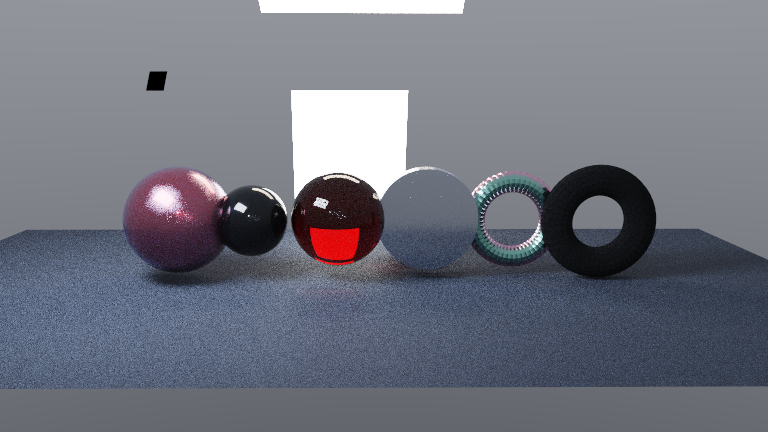
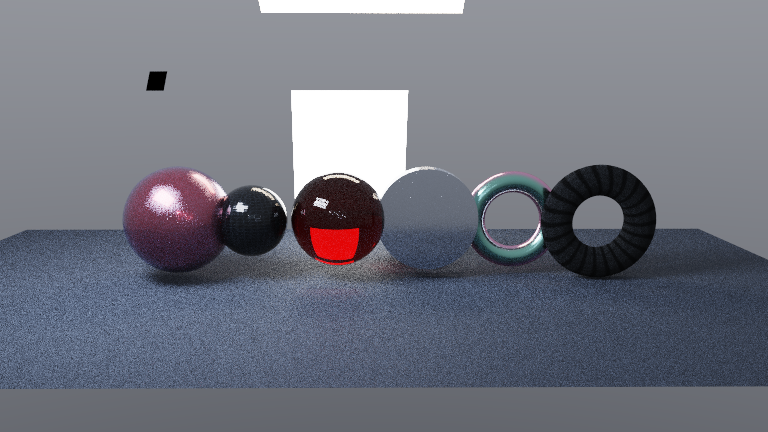
feat(materials): add UV automotive surface detail review

Changed region(s): [[0.625, 0.3912, 0.7188, 0.6019], [0.2812, 0.4815, 0.3438, 0.5116], [0.3438, 0.4514, 0.375, 0.4815]]

diff --git a/Exhibits/Workbench/Automotive/AutomotiveMaterialPreview.cpp b/Exhibits/Workbench/Automotive/AutomotiveMaterialPreview.cpp
@@ -20,10 +20,11 @@ namespace
 constexpr float kPi = 3.14159265358979323846f;
 
 void AddSmoothTri(const vec3& A, const vec3& B, const vec3& C,
-                  const vec3& Na, const vec3& Nb, const vec3& Nc, int Mat)
+                  const vec3& Na, const vec3& Nb, const vec3& Nc, int Mat,
+                  const vec2& UvA = vec2(0.0f), const vec2& UvB = vec2(0.0f), const vec2& UvC = vec2(0.0f))
 {
     size_t Base = g_Tris.size();
-    AddTri(A, B, C, Mat);
+    AddTri(A, B, C, Mat, -1, UvA, UvB, UvC);
     Tri& T = g_Tris[Base];
     T.Na = Na; T.Nb = Nb; T.Nc = Nc;
 }
@@ -44,10 +45,14 @@ void AddSphere(const vec3& Center, float Radius, int Mat, int Segments = 36, int
                                               std::sin(P) * std::sin(U), std::cos(P));
             };
             vec3 A = Point(P0, U0), B = Point(P0, U1), C = Point(P1, U1), D = Point(P1, U0);
+            vec2 Ua(static_cast<float>(X) / Segments, static_cast<float>(Y) / Rings);
+            vec2 Ub(static_cast<float>(X + 1) / Segments, static_cast<float>(Y) / Rings);
+            vec2 Uc(static_cast<float>(X + 1) / Segments, static_cast<float>(Y + 1) / Rings);
+            vec2 Ud(static_cast<float>(X) / Segments, static_cast<float>(Y + 1) / Rings);
             if (Y != 0)
-                AddSmoothTri(A, B, D, normalize(A - Center), normalize(B - Center), normalize(D - Center), Mat);
+                AddSmoothTri(A, B, D, normalize(A - Center), normalize(B - Center), normalize(D - Center), Mat, Ua, Ub, Ud);
             if (Y != Rings - 1)
-                AddSmoothTri(B, C, D, normalize(B - Center), normalize(C - Center), normalize(D - Center), Mat);
+                AddSmoothTri(B, C, D, normalize(B - Center), normalize(C - Center), normalize(D - Center), Mat, Ub, Uc, Ud);
         }
     }
 }
@@ -73,12 +78,19 @@ void AddTorus(const vec3& Center, float Major, float Minor, int Mat, int Segment
                 return normalize(vec3(std::cos(V) * std::cos(U), std::sin(V), std::cos(V) * std::sin(U)));
             };
             vec3 A = Point(U0, V0), B = Point(U1, V0), C = Point(U1, V1), D = Point(U0, V1);
-            if (dot(cross(B - A, D - A), Normal(U0, V0)) < 0.0f)
+            vec3 Na = Normal(U0, V0), Nb = Normal(U1, V0), Nc = Normal(U1, V1), Nd = Normal(U0, V1);
+            vec2 Ua(static_cast<float>(X) / Segments, static_cast<float>(Y) / Tube);
+            vec2 Ub(static_cast<float>(X + 1) / Segments, static_cast<float>(Y) / Tube);
+            vec2 Uc(static_cast<float>(X + 1) / Segments, static_cast<float>(Y + 1) / Tube);
+            vec2 Ud(static_cast<float>(X) / Segments, static_cast<float>(Y + 1) / Tube);
+            if (dot(cross(B - A, D - A), Na) < 0.0f)
             {
                 vec3 T = B; B = D; D = T;
+                vec3 Tn = Nb; Nb = Nd; Nd = Tn;
+                vec2 Tu = Ub; Ub = Ud; Ud = Tu;
             }
-            AddSmoothTri(A, B, D, Normal(U0, V0), Normal(U1, V0), Normal(U0, V1), Mat);
-            AddSmoothTri(B, C, D, Normal(U1, V0), Normal(U1, V1), Normal(U0, V1), Mat);
+            AddSmoothTri(A, B, D, Na, Nb, Nd, Mat, Ua, Ub, Ud);
+            AddSmoothTri(B, C, D, Nb, Nc, Nd, Mat, Ub, Uc, Ud);
         }
     }
 }
@@ -96,16 +108,24 @@ void AddCylinder(const vec3& Center, float Radius, float HalfLength, int Mat, in
         vec3 B = Center + vec3(R1.x * Radius, -HalfLength, R1.z * Radius);
         vec3 C = Center + vec3(R1.x * Radius, HalfLength, R1.z * Radius);
         vec3 D = Center + vec3(R0.x * Radius, HalfLength, R0.z * Radius);
-        AddSmoothTri(A, B, D, R0, R1, R0, Mat);
-        AddSmoothTri(B, C, D, R1, R1, R0, Mat);
+        vec2 Ua(static_cast<float>(X) / Segments, 0.0f);
+        vec2 Ub(static_cast<float>(X + 1) / Segments, 0.0f);
+        vec2 Uc(static_cast<float>(X + 1) / Segments, 1.0f);
+        vec2 Ud(static_cast<float>(X) / Segments, 1.0f);
+        AddSmoothTri(A, B, D, R0, R1, R0, Mat, Ua, Ub, Ud);
+        AddSmoothTri(B, C, D, R1, R1, R0, Mat, Ub, Uc, Ud);
         vec3 F0 = Center + vec3(R0.x * Radius, -HalfLength, R0.z * Radius);
         vec3 F1 = Center + vec3(R1.x * Radius, -HalfLength, R1.z * Radius);
         AddSmoothTri(Center + vec3(0.0f, -HalfLength, 0.0f), F1, F0,
-                     vec3(0.0f, -1.0f, 0.0f), vec3(0.0f, -1.0f, 0.0f), vec3(0.0f, -1.0f, 0.0f), Mat);
+                     vec3(0.0f, -1.0f, 0.0f), vec3(0.0f, -1.0f, 0.0f), vec3(0.0f, -1.0f, 0.0f), Mat,
+                     vec2(0.5f), vec2(0.5f + 0.5f * R1.x, 0.5f + 0.5f * R1.z),
+                     vec2(0.5f + 0.5f * R0.x, 0.5f + 0.5f * R0.z));
         vec3 B0 = Center + vec3(R0.x * Radius, HalfLength, R0.z * Radius);
         vec3 B1 = Center + vec3(R1.x * Radius, HalfLength, R1.z * Radius);
         AddSmoothTri(Center + vec3(0.0f, HalfLength, 0.0f), B0, B1,
-                     vec3(0.0f, 1.0f, 0.0f), vec3(0.0f, 1.0f, 0.0f), vec3(0.0f, 1.0f, 0.0f), Mat);
+                     vec3(0.0f, 1.0f, 0.0f), vec3(0.0f, 1.0f, 0.0f), vec3(0.0f, 1.0f, 0.0f), Mat,
+                     vec2(0.5f), vec2(0.5f + 0.5f * R0.x, 0.5f + 0.5f * R0.z),
+                     vec2(0.5f + 0.5f * R1.x, 0.5f + 0.5f * R1.z));
     }
 }
 
@@ -142,6 +162,8 @@ void ClearScene()
     g_Order.clear();
     g_Lights.clear();
     g_SolidBall = true;
+    g_AutomotiveCarbonMat = -1;
+    g_AutomotiveTireMat = -1;
     for (ShadingRecord& M : g_Mats) M = AutomotiveDefaults();
 }
 
@@ -207,6 +229,8 @@ void BuildSuiteScene()
     g_Mats[5] = AutomotiveTireRubber();
     g_Mats[6] = AutomotiveAlcantara();
     g_Mats[7] = GroundMaterial();
+    g_AutomotiveCarbonMat = 2;
+    g_AutomotiveTireMat = 5;
 
     AddQuad(vec3(-8.0f, -4.0f, 0.0f), vec3(8.0f, -4.0f, 0.0f),
             vec3(8.0f, 5.0f, 0.0f), vec3(-8.0f, 5.0f, 0.0f), 7);
@@ -260,6 +284,25 @@ void BuildOpticsScene()
     AddCylinder(vec3(2.95f, 0.68f, 1.05f), 0.76f, 0.18f, 3);
     AddTorus(vec3(4.35f, 0.80f, 0.92f), 0.55f, 0.15f, 6);
     AddStudioRig(vec3(0.0f, 0.8f, 1.0f));
+    FinaliseScene();
+}
+
+void BuildUvDetailScene()
+{
+    ClearScene();
+    g_Mats[0] = AutomotiveCarbonResin();
+    g_Mats[1] = AutomotiveTireRubber();
+    g_Mats[2] = GroundMaterial();
+    g_AutomotiveCarbonMat = 0;
+    g_AutomotiveTireMat = 1;
+
+    AddQuad(vec3(-6.0f, -3.0f, 0.0f), vec3(6.0f, -3.0f, 0.0f),
+            vec3(6.0f, 4.0f, 0.0f), vec3(-6.0f, 4.0f, 0.0f), 2);
+    // Close review samples: the sphere exposes the dual-weave carbon UV field, while the torus exposes the wrapped
+    // tire tread UV field. Both are procedurally generated and carry interpolated UVs into the shared hit path.
+    AddSphere(vec3(-1.45f, 0.55f, 1.18f), 1.05f, 0, 64, 40);
+    AddTorus(vec3(1.55f, 0.85f, 1.08f), 0.78f, 0.29f, 1, 64, 28);
+    AddStudioRig(vec3(0.0f, 0.75f, 1.05f));
     FinaliseScene();
 }
 
@@ -380,6 +423,14 @@ int main(int Argc, char** Argv)
     std::string OpticsPath = OutDir + "/AutomotiveOpticsAndCoatings.png";
     if (!WriteFilm(OpticsPath.c_str(), Optics, Width, Height, 1.0f)) return 3;
 
+    BuildUvDetailScene();
+    Camera UvCamera = MakeCamera(vec3(0.10f, -7.4f, 2.55f), vec3(0.10f, 0.70f, 1.10f),
+                                 static_cast<float>(Width) / Height, 27.5f);
+    std::vector<float> UvDetail;
+    RenderFilm(UvCamera, Width, Height, Spp, UvDetail, 252);
+    std::string UvPath = OutDir + "/AutomotiveUvSurfaceDetail.png";
+    if (!WriteFilm(UvPath.c_str(), UvDetail, Width, Height, 1.25f)) return 5;
+
     BuildPaintScene();
     int PaintW = Width / 2;
     Camera FaceCamera = MakeCamera(vec3(0.0f, -8.5f, 2.45f), vec3(0.0f, 0.65f, 1.45f),
@@ -394,6 +445,7 @@ int main(int Argc, char** Argv)
 
     std::printf("[AutomotivePreview] wrote %s\n", SuitePath.c_str());
     std::printf("[AutomotivePreview] wrote %s\n", OpticsPath.c_str());
+    std::printf("[AutomotivePreview] wrote %s\n", UvPath.c_str());
     std::printf("[AutomotivePreview] wrote %s\n", PaintPath.c_str());
     std::printf("[AutomotivePreview] exact BSDF: Engine/Shaders/MaterialEvaluation.slang\n");
     std::printf("[AutomotivePreview] exact profiles: Engine/Shaders/AutomotiveMaterialProfiles.slang\n");

diff --git a/Engine/ContentInterchange/ShaderballPreview.cpp b/Engine/ContentInterchange/ShaderballPreview.cpp
@@ -114,6 +114,7 @@ struct Tri
 {
     vec3 A, B, C;      // vertices (world)
     vec3 Na, Nb, Nc;   // smooth vertex normals (world); zero when the source has none
+    vec2 UvA, UvB, UvC; // interpolated surface UVs; zero when the source has none
     vec3 Ng;           // geometric normal (unit)
     int  Mat;          // material slot
     int  Light;        // emissive quad id, −1 when not a luminaire
@@ -263,11 +264,13 @@ struct QuadLight
 
 std::vector<QuadLight> g_Lights;
 
-void AddTri(const vec3& A, const vec3& B, const vec3& C, int Mat, int Light = -1)
+void AddTri(const vec3& A, const vec3& B, const vec3& C, int Mat, int Light = -1,
+            const vec2& UvA = vec2(0.0f), const vec2& UvB = vec2(0.0f), const vec2& UvC = vec2(0.0f))
 {
     Tri T;
     T.A = A; T.B = B; T.C = C;
     T.Na = T.Nb = T.Nc = vec3(0.0f);
+    T.UvA = UvA; T.UvB = UvB; T.UvC = UvC;
     T.Ng = normalize(cross(B - A, C - A));
     T.Mat = Mat; T.Light = Light;
     g_Tris.push_back(T);
@@ -278,6 +281,7 @@ bool LoadObj(const char* Path, int Mat)
     FILE* F = std::fopen(Path, "r");
     if (!F) return false;
     std::vector<vec3> V, N;
+    std::vector<vec2> UV;
     char Line[1024];
     int Added = 0;
     while (std::fgets(Line, sizeof(Line), F))
@@ -287,6 +291,11 @@ bool LoadObj(const char* Path, int Mat)
             vec3 P;
             if (std::sscanf(Line + 2, "%f %f %f", &P.x, &P.y, &P.z) == 3) V.push_back(P);
         }
+        else if (Line[0] == 'v' && Line[1] == 't')
+        {
+            vec2 Q;
+            if (std::sscanf(Line + 3, "%f %f", &Q.x, &Q.y) >= 2) UV.push_back(Q);
+        }
         else if (Line[0] == 'v' && Line[1] == 'n')
         {
             vec3 Q;
@@ -294,8 +303,9 @@ bool LoadObj(const char* Path, int Mat)
         }
         else if (Line[0] == 'f' && Line[1] == ' ')
         {
-            // Fan-triangulate; accepts v, v/vt/vn, v//vn.
-            int VI[16], NI[16], NV = 0;
+            // Fan-triangulate; accepts v, v/vt/vn, v//vn. UVs are kept alongside positions so material detail
+            // can be evaluated in the same interpolated hit path as the smooth shading normal.
+            int VI[16], TI[16], NI[16], NV = 0;
             const char* P = Line + 2;
             while (*P && NV < 16)
             {
@@ -306,7 +316,10 @@ bool LoadObj(const char* Path, int Mat)
                 if (Read <= 0) { Read = std::sscanf(P, "%d//%d", &Vi, &Ni); }
                 if (Read <= 0) { Read = std::sscanf(P, "%d", &Vi); }
                 if (Read <= 0) break;
-                VI[NV] = Vi - 1; NI[NV] = (Read >= 3 || (Read == 2 && std::strchr(P, '/'))) ? Ni - 1 : -1;
+                VI[NV] = Vi - 1;
+                bool HasUv = Read >= 2 && std::strchr(P, '/') != nullptr && std::strstr(P, "//") == nullptr;
+                TI[NV] = HasUv ? Ti - 1 : -1;
+                NI[NV] = (Read >= 3 || (Read == 2 && std::strstr(P, "//") != nullptr)) ? Ni - 1 : -1;
                 ++NV;
                 while (*P && *P != ' ' && *P != '\t' && *P != '\n' && *P != '\r') ++P;
             }
@@ -315,7 +328,13 @@ bool LoadObj(const char* Path, int Mat)
                 int I0 = VI[0], I1 = VI[K], I2 = VI[K + 1];
                 if (I0 < 0 || I1 < 0 || I2 < 0 || I0 >= (int)V.size() || I1 >= (int)V.size() || I2 >= (int)V.size()) continue;
                 size_t Base = g_Tris.size();
-                AddTri(V[I0], V[I1], V[I2], Mat);
+                vec2 T0(0.0f), T1(0.0f), T2(0.0f);
+                int K0 = TI[0], K1 = TI[K], K2 = TI[K + 1];
+                if (K0 >= 0 && K1 >= 0 && K2 >= 0 && K0 < (int)UV.size() && K1 < (int)UV.size() && K2 < (int)UV.size())
+                {
+                    T0 = UV[K0]; T1 = UV[K1]; T2 = UV[K2];
+                }
+                AddTri(V[I0], V[I1], V[I2], Mat, -1, T0, T1, T2);
                 Tri& T = g_Tris[Base];
                 int J0 = NI[0], J1 = NI[K], J2 = NI[K + 1];
                 if (J0 >= 0 && J1 >= 0 && J2 >= 0 && J0 < (int)N.size() && J1 < (int)N.size() && J2 < (int)N.size())
@@ -382,6 +401,11 @@ ShadingRecord StandardMaterial(vec3 albedo, float roughness)
 }
 
 ShadingRecord g_Mats[8];
+
+// Standalone automotive scene selectors. A value below zero keeps UV review detail opt-in; the ordinary shaderball
+// exhibit and Project-Zero paths therefore retain their legacy material bytes and shading behavior.
+int g_AutomotiveCarbonMat = -1;
+int g_AutomotiveTireMat = -1;
 bool g_SolidBall = false;   // M4b: the ball (slot 0) is traversed as solid glass (medium tracking, not skip-ball)
 
 #ifndef SHADERBALL_PREVIEW_LIB
@@ -603,17 +627,30 @@ vec3 Radiance(vec3 O, vec3 D, Rng& R)
             Ns = normalize(T.Na * (1.0f - H.U - H.V) + T.Nb * H.U + T.Nc * H.V);
         else
             Ns = Ng;
+        ShadingRecord m = g_Mats[T.Mat];   // local copy: the v1 nested fallback below may zero transmission
 #ifdef FRONTIER_AUTOMOTIVE_PREVIEW
+        // UVs are interpolated at the hit and consumed by the shared analytic review patterns. The normal detail is
+        // applied before the shading frame is built; the lobe evaluator remains the exact shared implementation.
+        vec2 Uv = T.UvA * (1.0f - H.U - H.V) + T.UvB * H.U + T.UvC * H.V;
+        if (T.Mat == g_AutomotiveCarbonMat)
+        {
+            m = AutomotiveApplyCarbonUvDetail(m, Uv);
+            Ns = AutomotiveUvFrameNormal(Ns, Uv, 0.0f, 0.035f);
+        }
+        else if (T.Mat == g_AutomotiveTireMat)
+        {
+            m = AutomotiveApplyTireUvDetail(m, Uv);
+            Ns = AutomotiveUvFrameNormal(Ns, Uv, 1.0f, 0.055f);
+        }
         // The standalone paint preview uses the same shared procedural fallback as its material record: flakes are
         // microfacets under the coat, so their bounded normal variation is applied before the shading frame is built.
-        if (g_Mats[T.Mat].Metalness > 0.8f && g_Mats[T.Mat].CoatWeight > 0.0f)
+        if (m.Metalness > 0.8f && m.CoatWeight > 0.0f)
             Ns = AutomotiveApplyTriCoatFlakeNormal(Ns, P, 0.38f, 24.0f, 0.37f);
 #endif
         if (dot(Ns, D) > 0.0f) Ns = -Ns;
         vec3 Tt, Bt;
         ShadingFrame(Ns, Tt, Bt);
         vec3 wo(dot(-D, Tt), dot(-D, Bt), dot(-D, Ns));
-        ShadingRecord m = g_Mats[T.Mat];   // local copy: the v1 nested fallback below may zero transmission
 #ifdef FRONTIER_AUTOMOTIVE_PREVIEW
         // The standalone automotive scene opts into the shared analytic flake/flop profile. The hook is compile-time
         // isolated from the ordinary shaderball exhibit and Project-Zero; the material math itself lives in the

diff --git a/References/AutomotiveMaterials-Plan.md b/References/AutomotiveMaterials-Plan.md
@@ -16,6 +16,7 @@ Implemented in this branch:
   - no duplicate CPU-only BSDF implementation
 - `Exhibits/Workbench/Automotive/AutomotiveMaterialPreview.cpp`
   - procedural UV-parameterized sphere, torus, and cylinder geometry
+  - standalone UV-detail review scene for carbon dual-weave and tire tread
   - separate rack scene, not Project-Zero
   - renders through the exact `MaterialEvaluation.slang` OpenPBR evaluator compiled as C++
 - `Exhibits/Workbench/Automotive/RunAutomotiveMaterialPreview.sh`
@@ -40,6 +41,7 @@ Implemented in this branch:
 
 - `Exhibits/Gallery/Automotive/AutomotiveMaterialSuite.png`
 - `Exhibits/Gallery/Automotive/AutomotiveOpticsAndCoatings.png`
+- `Exhibits/Gallery/Automotive/AutomotiveUvSurfaceDetail.png`
 
 These are reference images, not GPU captures. They are rendered from the shipped evaluator compiled as C++ so the
 material math is identical to the Slang evaluator. GPU lowering/runtime validation remains a separate machine gate.
@@ -65,11 +67,20 @@ Implemented in the shared profile source and standalone preview:
 The GPU host does not serialize the new automotive parameters yet. That is intentional and remains part of the later
 Project-Zero integration gate.
 
-### B. UV-backed surface detail
+### B. UV-backed surface detail — preview complete
 
-1. Extend the preview mesh path to carry UVs through the CPU mirror.
-2. Add UV dual-weave carbon and tire tread test textures.
-3. Keep the authored textures outside Project-Zero until the preview acceptance sheet is approved.
+Implemented in the shared profile source and standalone preview:
+
+1. `Tri` carries per-vertex UVs, the OBJ loader preserves `vt` coordinates, and procedural sphere/torus/cylinder meshes
+   emit UVs that are barycentrically interpolated at the hit.
+2. `AutomotiveCarbonWeave` and `AutomotiveTireTread` are deterministic UV test fields shared by the CPU and GPU source;
+   they modulate the base/roughness lobes and feed a bounded UV-frame normal detail pass.
+3. `AutomotiveUvSurfaceDetail.png` provides a close standalone review of the carbon dual-weave and wrapped tire tread.
+4. These analytic fields are the texture-binding-independent review fallback. Authored texture assets remain outside
+   Project-Zero until the preview acceptance sheet is approved.
+
+The next phase is lighting optics (dispersion, reflector geometry, and TIR comparison); host integration remains gated
+on review of the standalone sheets.
 
 ### C. Lighting optics
 

diff --git a/Exhibits/Gallery/Automotive/README.md b/Exhibits/Gallery/Automotive/README.md
@@ -21,12 +21,14 @@ is included by `MaterialEvaluation.slang` and therefore is shared with the GPU s
   titanium, tire rubber, and Alcantara on procedural preview geometry.
 - `AutomotiveOpticsAndCoatings.png` — clear headlight glass, red tail-lens glass, blue tri-coat paint, brushed alloy,
   and thin-film titanium in a closer optics/coating arrangement.
+- `AutomotiveUvSurfaceDetail.png` — close standalone carbon dual-weave and wrapped tire-tread UV review. The UVs are
+  carried per triangle, interpolated at each hit, and evaluated by the shared analytic surface-detail functions.
 - `AutomotivePaintFlakeFlopComparison.png` — the same red tri-coat paint from a face-on and grazing camera. The
   deterministic analytic flake signal and grazing-angle flop are active in both panels.
 
-The geometry is generated from UV-parameterized spheres, torus rings, and a cylinder. The current flakes are a
-texture-free analytic fallback in the shared Slang profile; UV-backed carbon weave and tread textures remain deferred
-until this preview is accepted.
+The geometry is generated from UV-parameterized spheres, torus rings, and a cylinder. The flake and UV detail passes
+are texture-free analytic fallbacks in the shared Slang profile so the CPU review remains exact; host texture binding
+and authored assets remain deferred until this preview is accepted.
 
 The saved implementation plan is `References/AutomotiveMaterials-Plan.md`.
 
